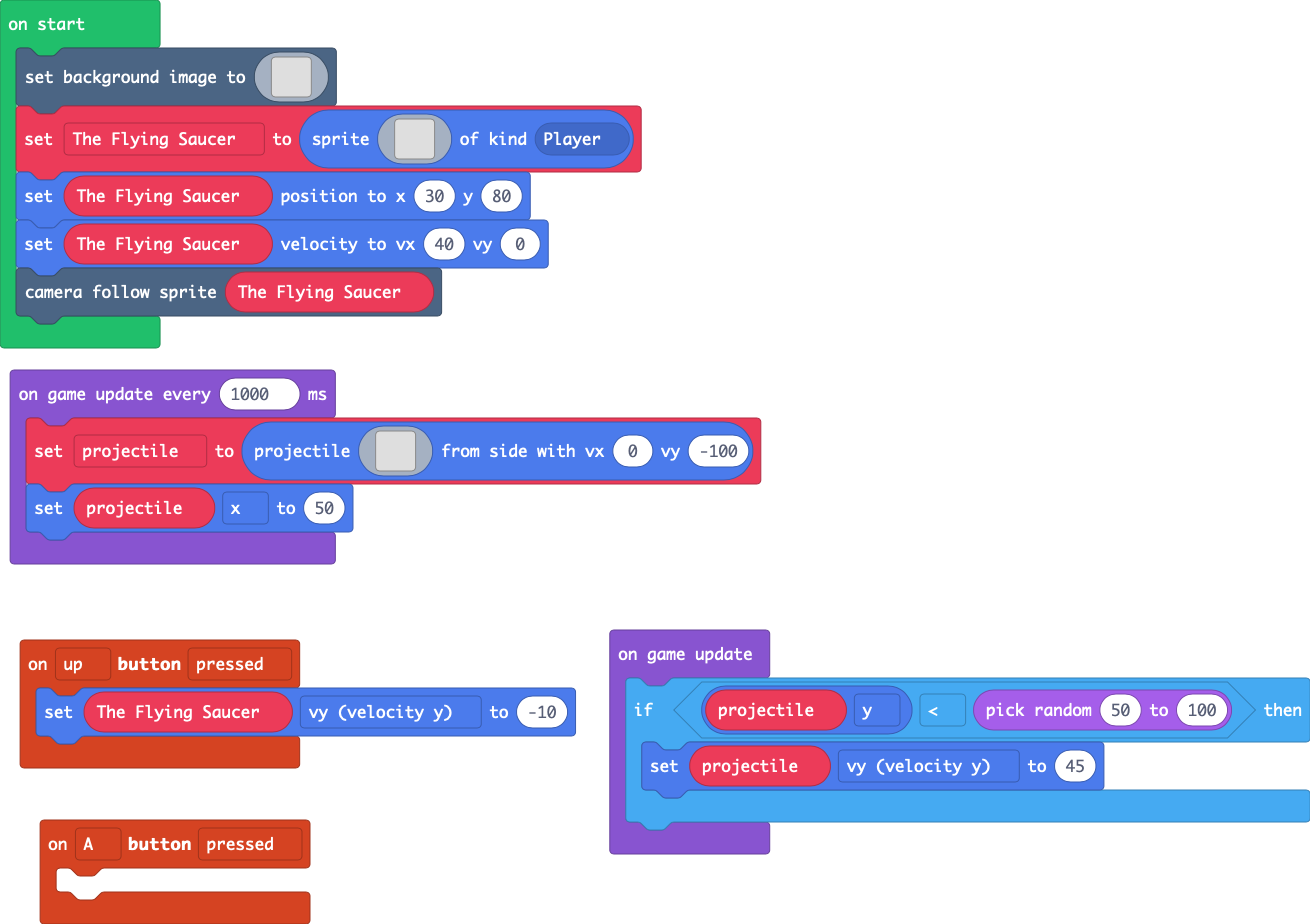
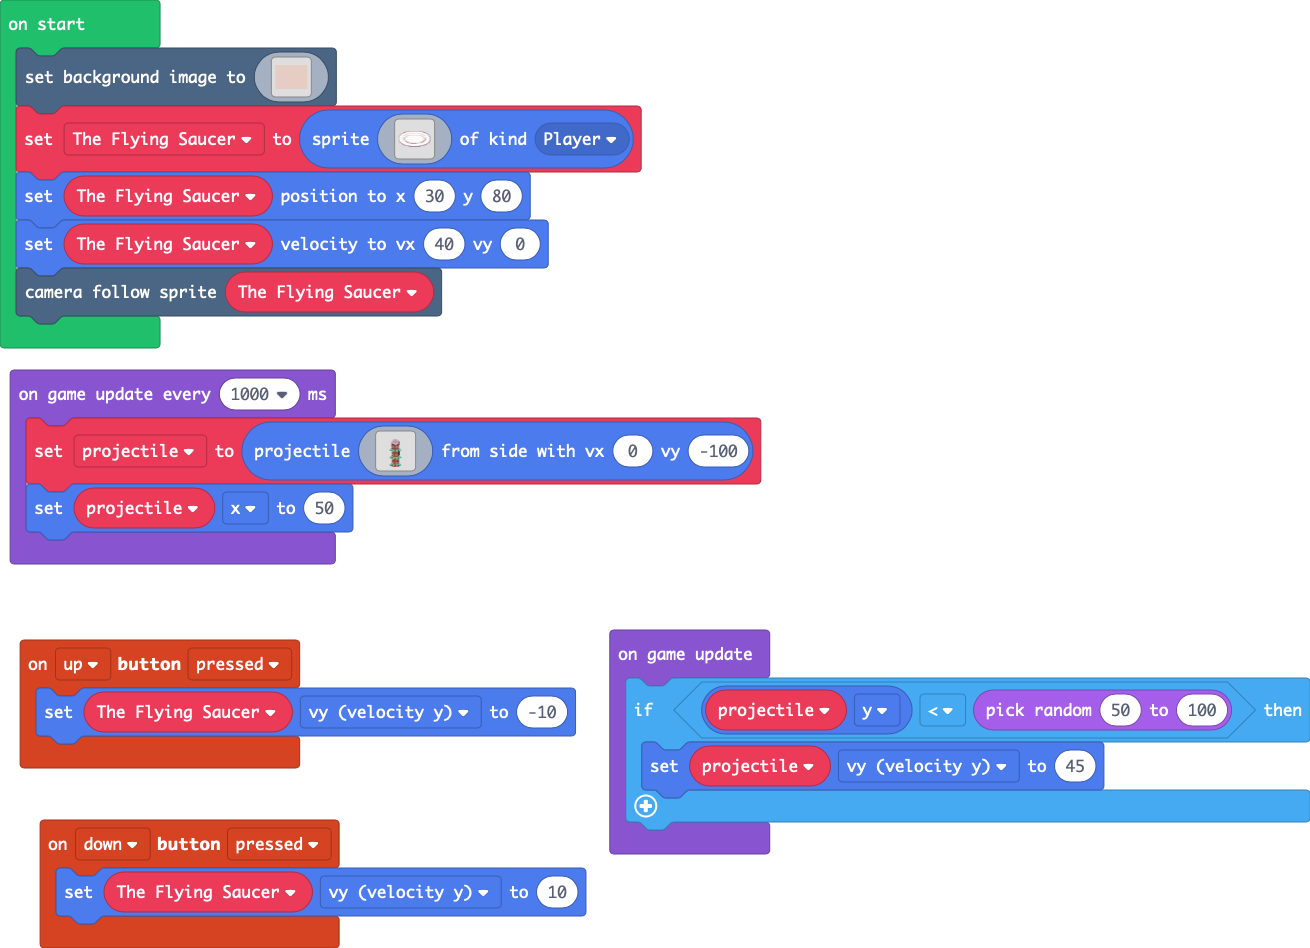
Set starting point and direction of 'obstacle'/projectile (done previously but not mentioned) and set the 'up' and 'down' buttons.

Changed region(s): [[0.0, 0.6364, 1.0, 1.0], [0.0, 0.0, 0.5802, 0.6364]]

diff --git a/main.ts b/main.ts
@@ -1,5 +1,5 @@
-controller.A.onEvent(ControllerButtonEvent.Pressed, function () {
-	
+controller.down.onEvent(ControllerButtonEvent.Pressed, function () {
+    The_Flying_Saucer.vy = 10
 })
 controller.up.onEvent(ControllerButtonEvent.Pressed, function () {
     The_Flying_Saucer.vy = -10
